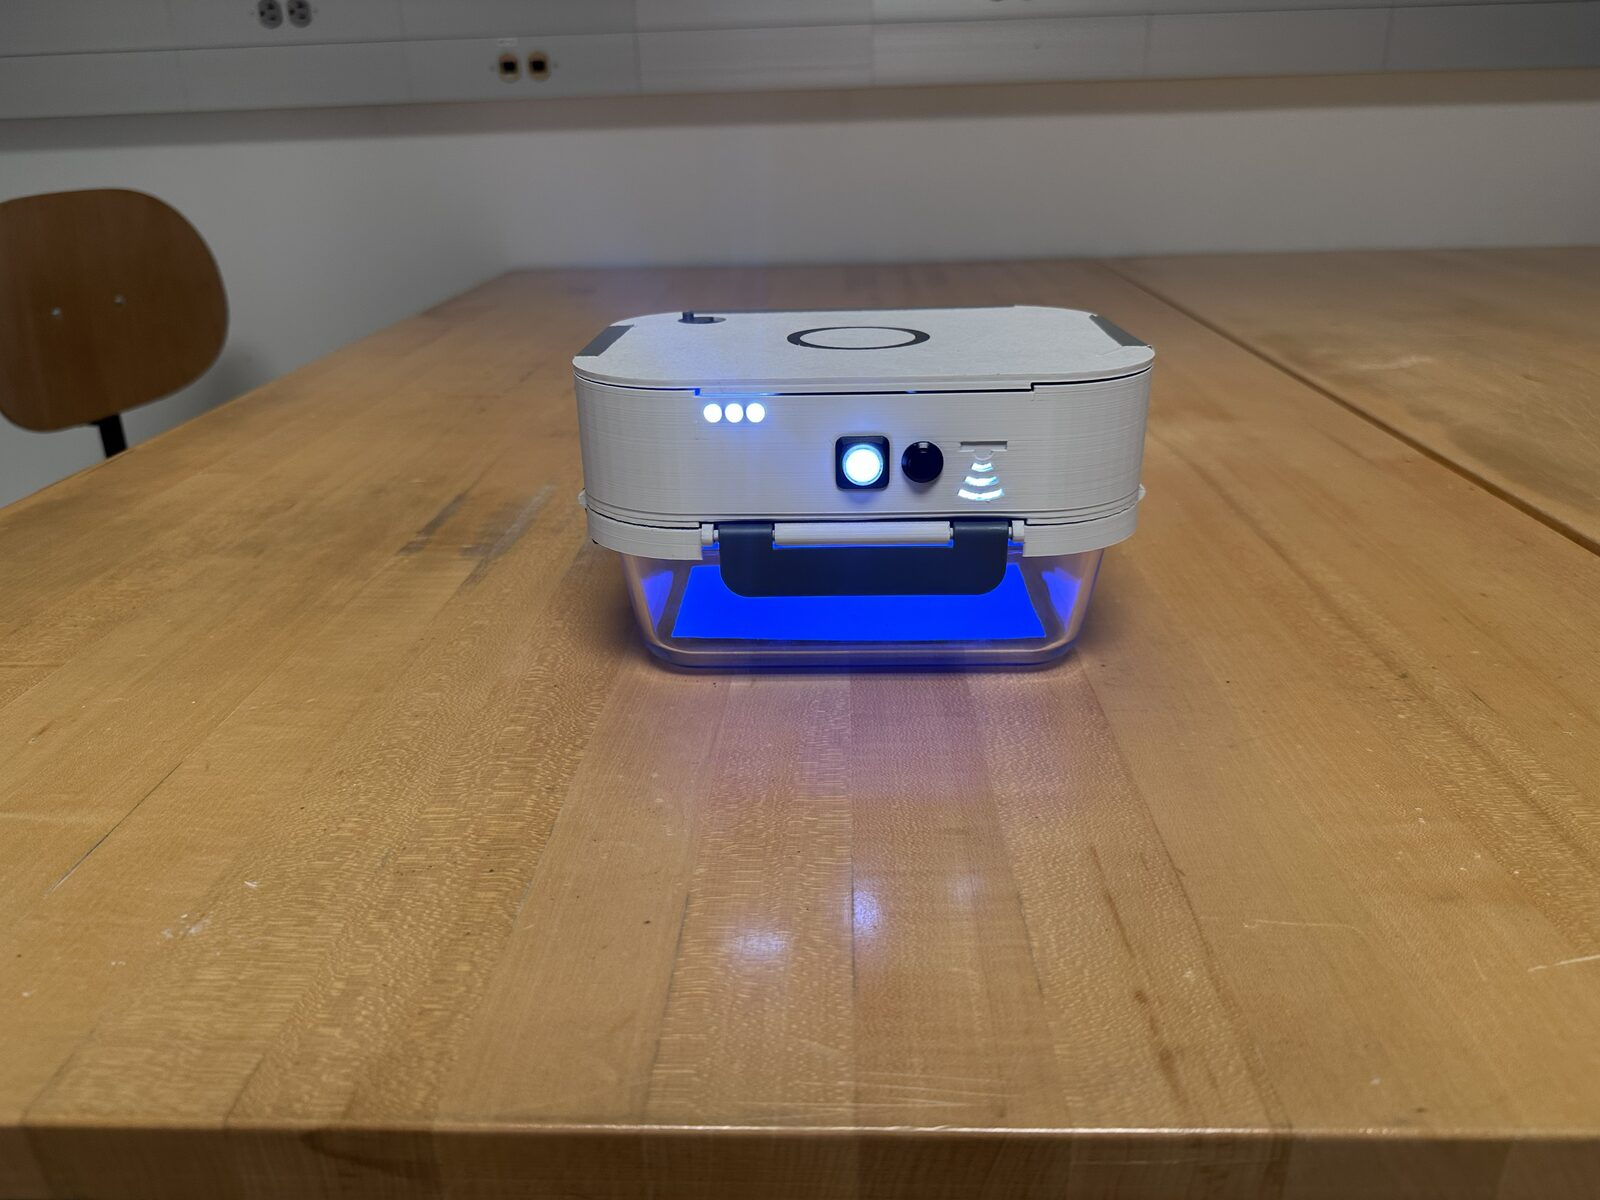
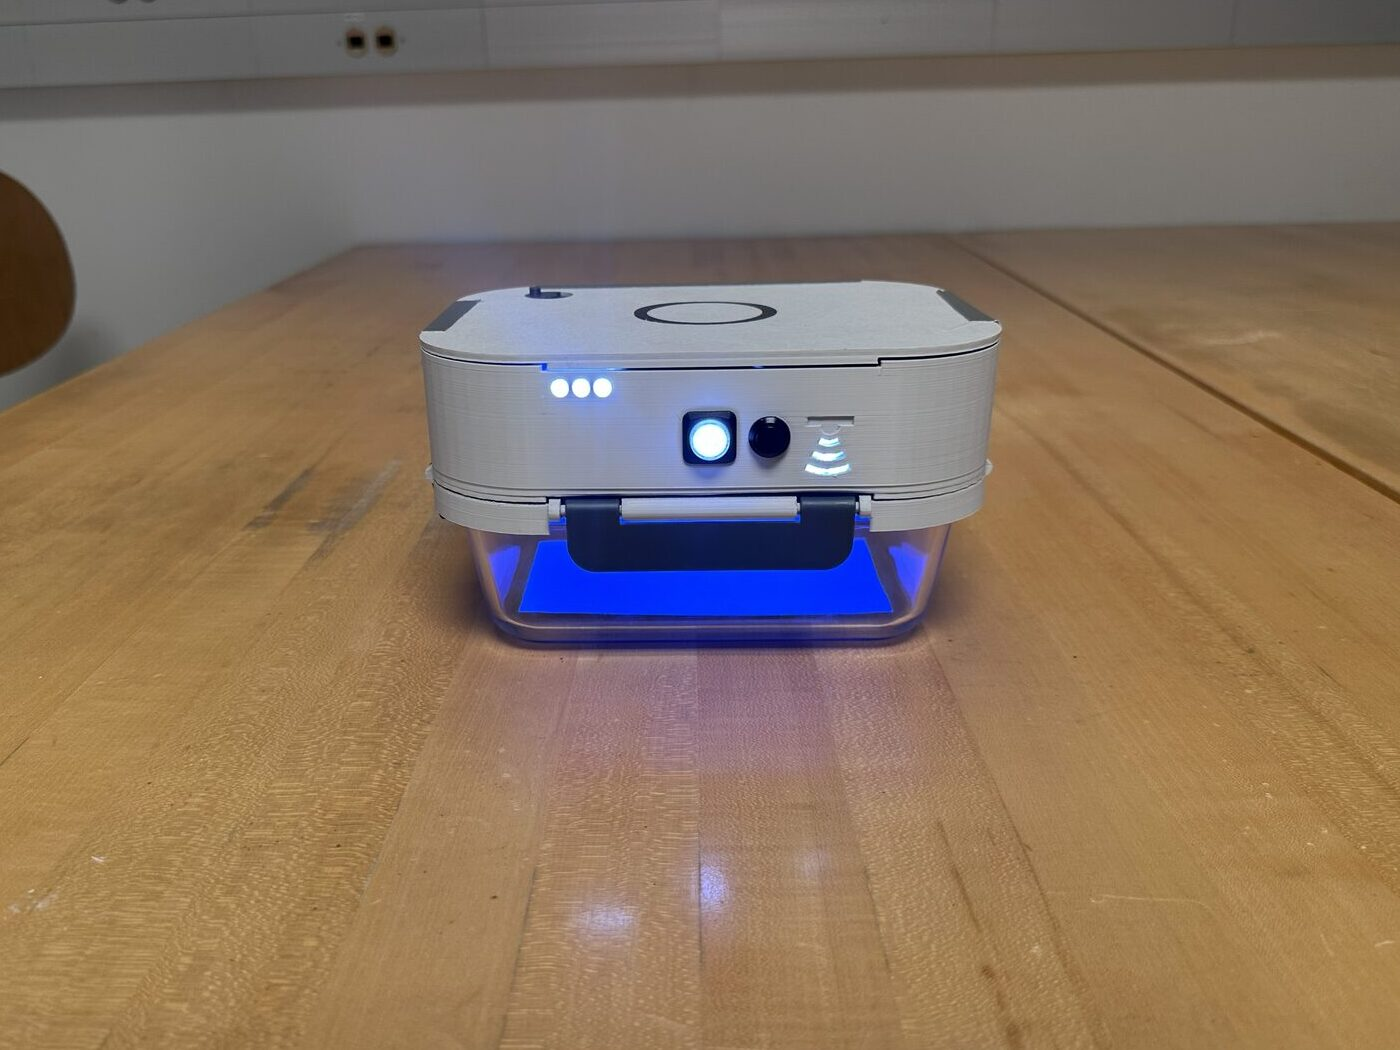
Recenter UV case study glow hero (crop container to center, trim table edge)

diff --git a/uv-food-storage.html b/uv-food-storage.html
@@ -126,7 +126,7 @@
     <h1>UV Food Storage</h1>
     <p class="lead">A UV-C lid that slows produce spoilage inside an ordinary glass container. I owned the battery and charging system, the part that lets it run for weeks on a single wireless charge.</p>
     <figure class="cs-photo-wide">
-      <img src="images/uv-case-study/Uv_container_glow.jpg" alt="The prototype mid-cycle: the sealed glass container glows blue from the UV-C light inside" width="1600" height="1200">
+      <img src="images/uv-case-study/Uv_container_glow.jpg" alt="The prototype mid-cycle: the sealed glass container glows blue from the UV-C light inside" width="1400" height="1050">
       <figcaption>Mid-cycle: UV-C fills the sealed container.</figcaption>
     </figure>
     <div class="meta">
